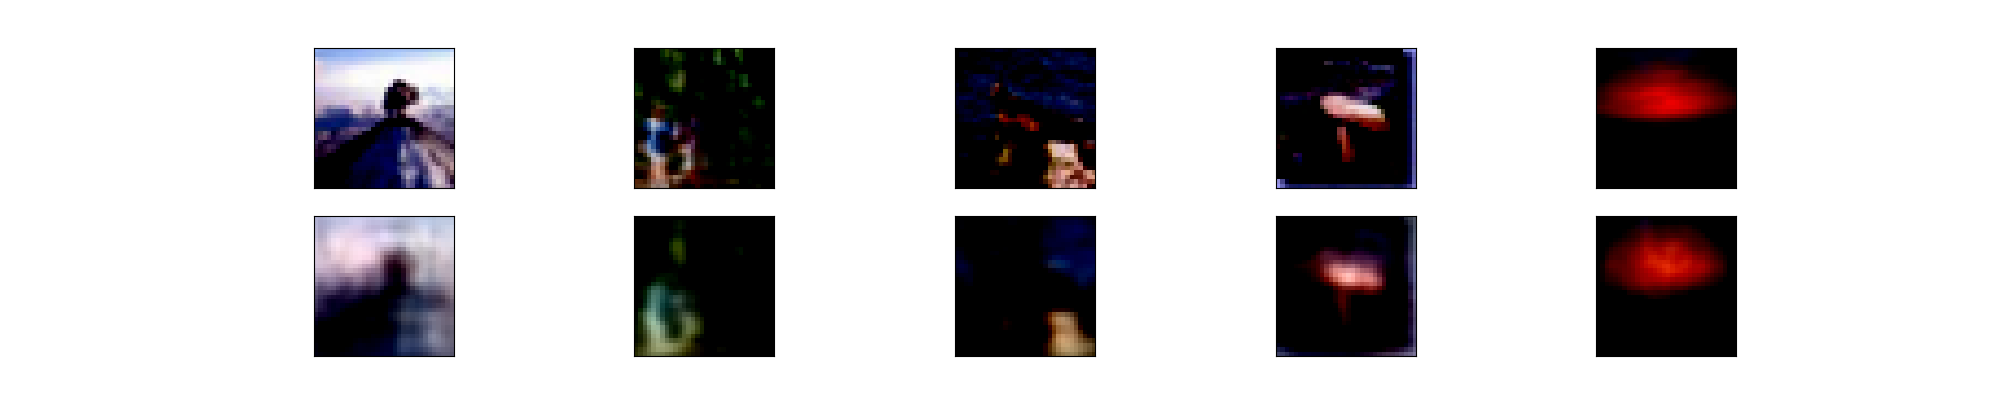
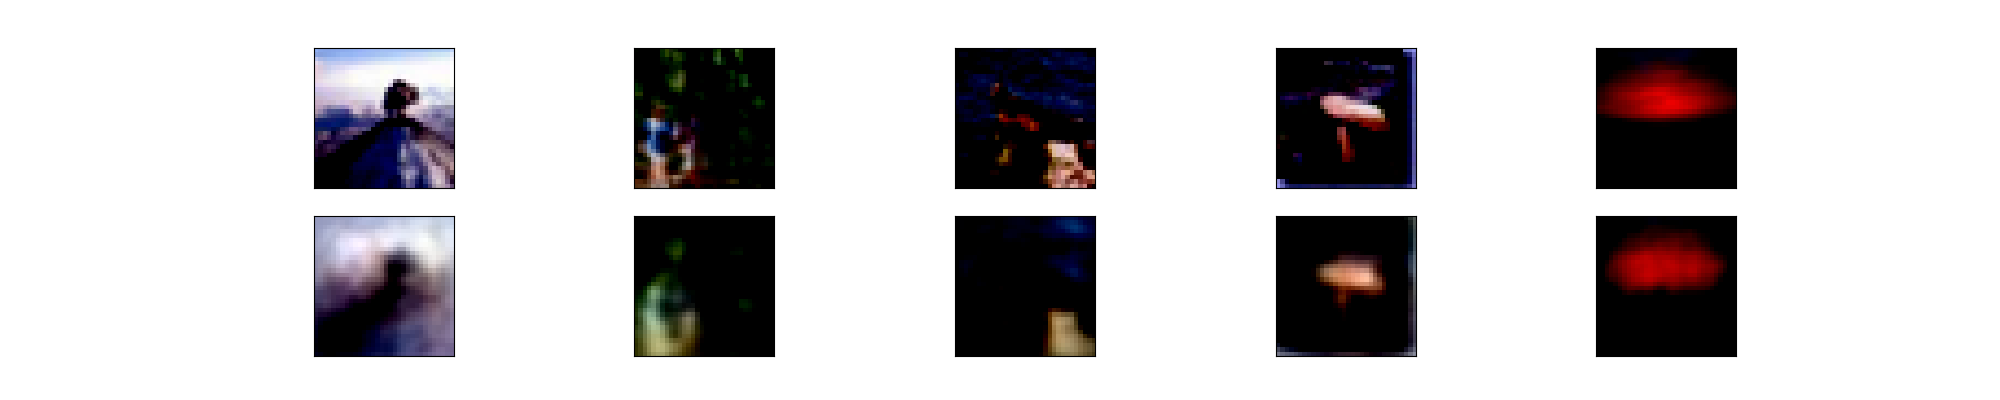
Added images for different variations of OS-ELM

diff --git a/oselm/train-os-elm.py b/oselm/train-os-elm.py
@@ -203,17 +203,17 @@ def test_model(model, test_loader, dataset, mode):
         pred = model.predict(data)
         loss, _ = model.evaluate(data, pred)
         losses.append(loss.item())
-        if mode == "sample":
+        if mode == "sample" or test_loader.batch_size < NUM_IMAGES:
             outputs.append((data, pred))
         if not saved_img:
-            if mode == "sample":
+            if mode == "sample" or test_loader.batch_size < NUM_IMAGES:
                 if len(outputs) > NUM_IMAGES:
                     full_data = torch.cat([data for (data, _) in outputs], dim=0)
                     full_pred = torch.cat([pred for (_, pred) in outputs], dim=0)
-                    visualize_comparisons(full_data.cpu().numpy(), full_pred.cpu().detach().numpy(), dataset)
+                    visualize_comparisons(full_data.cpu().numpy(), full_pred.cpu().detach().numpy(), dataset, test_loader.batch_size)
                     saved_img = True
             else:
-                visualize_comparisons(data.cpu().numpy(), pred.cpu().detach().numpy(), dataset)
+                visualize_comparisons(data.cpu().numpy(), pred.cpu().detach().numpy(), dataset, test_loader.batch_size)
                 saved_img = True
 
     loss = sum(losses) / len(losses)
@@ -240,7 +240,7 @@ Visualize the original and reconstructed images
 :param dataset: The dataset used
 :param n: The number of images to visualize
 """
-def visualize_comparisons(originals, reconstructions, dataset, n=NUM_IMAGES):
+def visualize_comparisons(originals, reconstructions, dataset, batch_size, n=NUM_IMAGES):
     plt.figure(figsize=(20, 4))
     for i in range(n): # Display original images
         ax = plt.subplot(2, n, i + 1)
@@ -264,7 +264,10 @@ def visualize_comparisons(originals, reconstructions, dataset, n=NUM_IMAGES):
         ax.get_xaxis().set_visible(False)
         ax.get_yaxis().set_visible(False)
 
-    plt.savefig(f"oselm/results/{dataset}-reconstructions.png")
+    if batch_size == 1:
+        plt.savefig(f"oselm/results/{dataset}-reconstructions-sample.png")
+    else:
+        plt.savefig(f"oselm/results/{dataset}-reconstructions-batch-{batch_size}.png")
 
 """
 Get the mode of sequential training (either "sample" or "batch")

diff --git a/autoencoder/train-autoencoder.py b/autoencoder/train-autoencoder.py
@@ -10,7 +10,7 @@ import time
 import matplotlib.pyplot as plt
 
 BATCH_SIZE = 64
-NUM_EPOCHS = 50
+NUM_EPOCHS = 30
 NUM_IMAGES = 5
 DEVICE = (
     "cuda"
